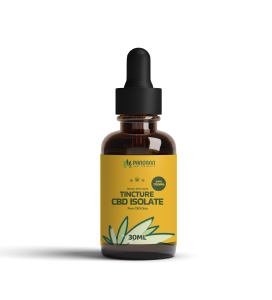
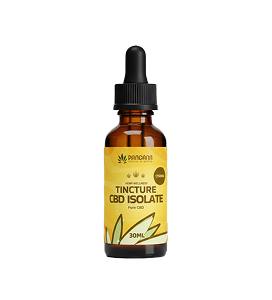
Update 1750mg CBD Oil product images with large assets

Changed region(s): [[0.0588, 0.15, 0.6765, 0.87]]

diff --git a/pancann-cbd-oil-isolate-1750mg-30ml.html b/pancann-cbd-oil-isolate-1750mg-30ml.html
@@ -305,19 +305,19 @@
         <div class="col-lg-6 mb-30">
           <div class="product-slide-row">
             <div class="product-big-img vs-carousel" data-slide-show="1" data-fade="true" data-asnavfor=".product-thumb-slide">
-              <div class="img"><img src="assets/img/products/p-d-1-1.png" alt="Product Image"></div>
-              <div class="img"><img src="assets/img/products/p-d-1-2.png" alt="Product Image"></div>
-              <div class="img"><img src="assets/img/products/p-d-1-3.png" alt="Product Image"></div>
+              <div class="img"><img src="assets/img/products/cbd-isolate-1750mg-large-01.png" alt="Product Image"></div>
+              <div class="img"><img src="assets/img/products/cbd-isolate-1750mg-large-02.png" alt="Product Image"></div>
+              <div class="img"><img src="assets/img/products/cbd-isolate-1750mg-large-03.png" alt="Product Image"></div>
             </div>
             <div class="product-thumb-slide vs-carousel" data-slide-show="4" data-md-slide-show="4" data-sm-slide-show="3" data-xs-slide-show="3" data-asnavfor=".product-big-img" data-vertical="false" data-sm-vertical="false">
               <div>
-                <div class="thumb"><img src="assets/img/products/p-d-s-1-1.png" alt="Product Image"></div>
+                <div class="thumb"><img src="assets/img/products/cbd-isolate-1750mg-large-01.png" alt="Product Image"></div>
               </div>
               <div>
-                <div class="thumb"><img src="assets/img/products/p-d-s-1-2.png" alt="Product Image"></div>
+                <div class="thumb"><img src="assets/img/products/cbd-isolate-1750mg-large-02.png" alt="Product Image"></div>
               </div>
               <div>
-                <div class="thumb"><img src="assets/img/products/p-d-s-1-3.png" alt="Product Image"></div>
+                <div class="thumb"><img src="assets/img/products/cbd-isolate-1750mg-large-03.png" alt="Product Image"></div>
               </div>
             </div>
           </div>
